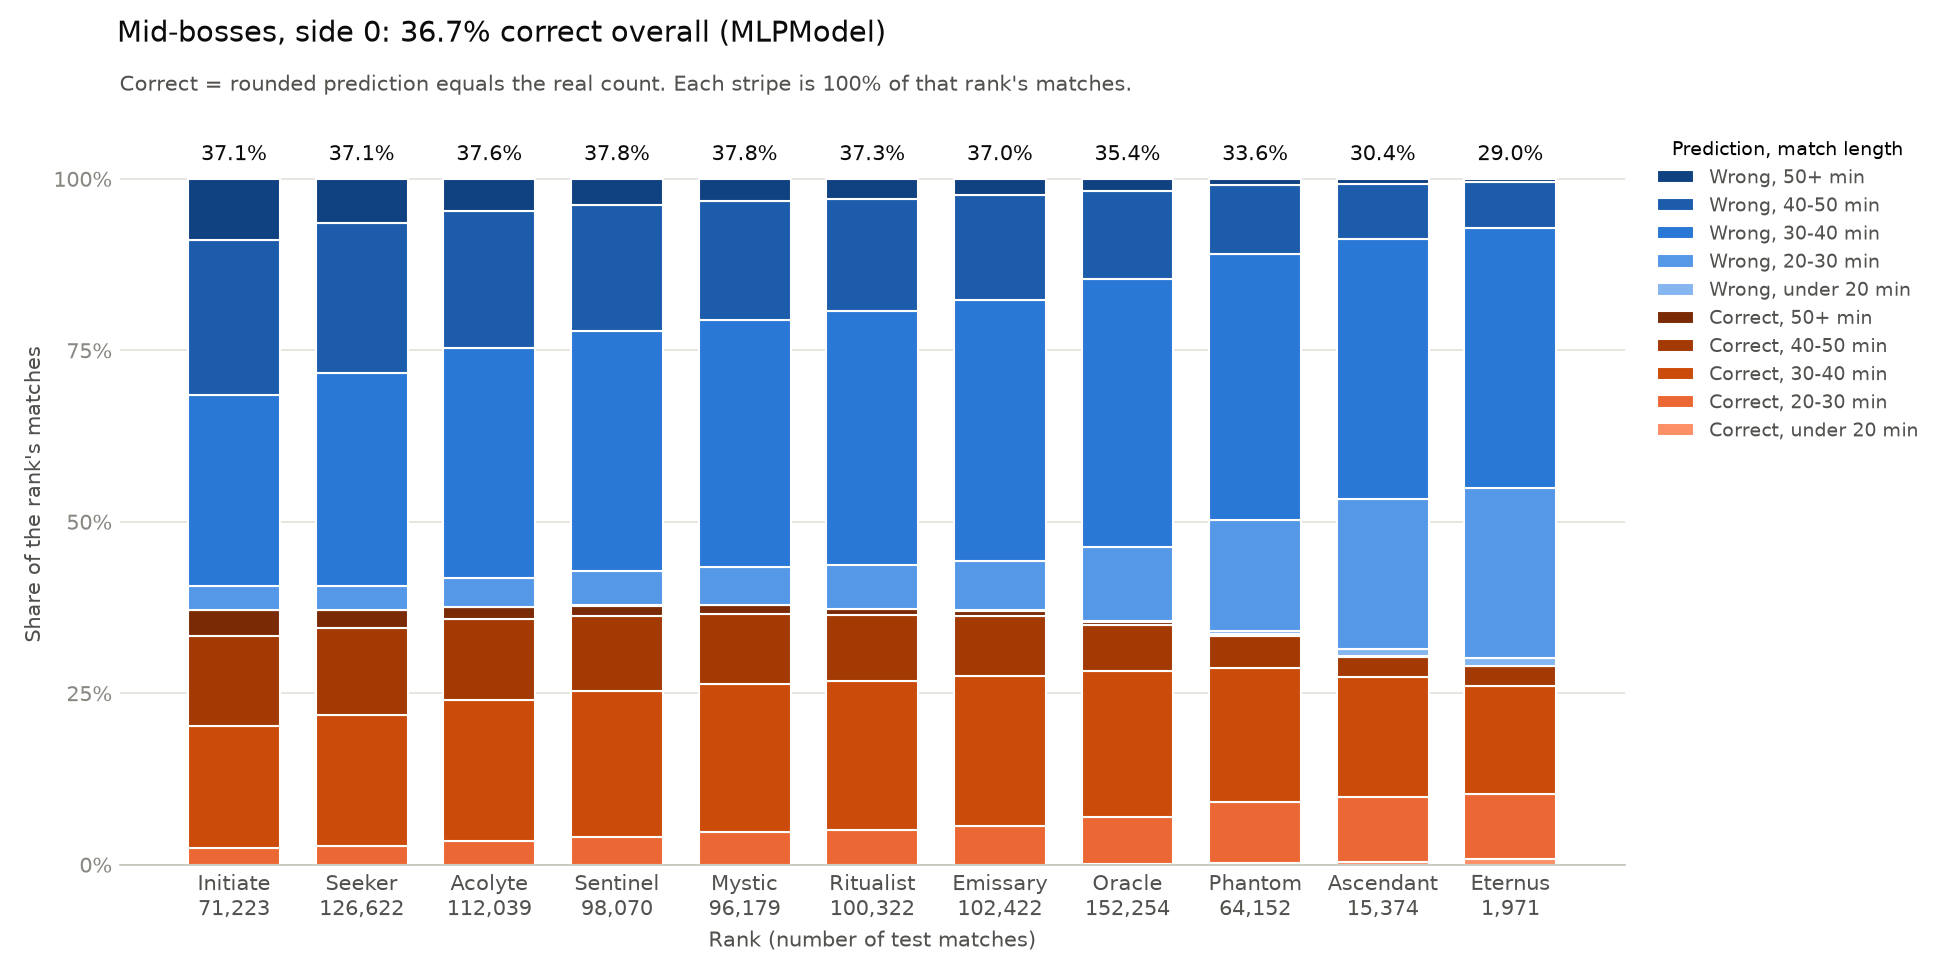
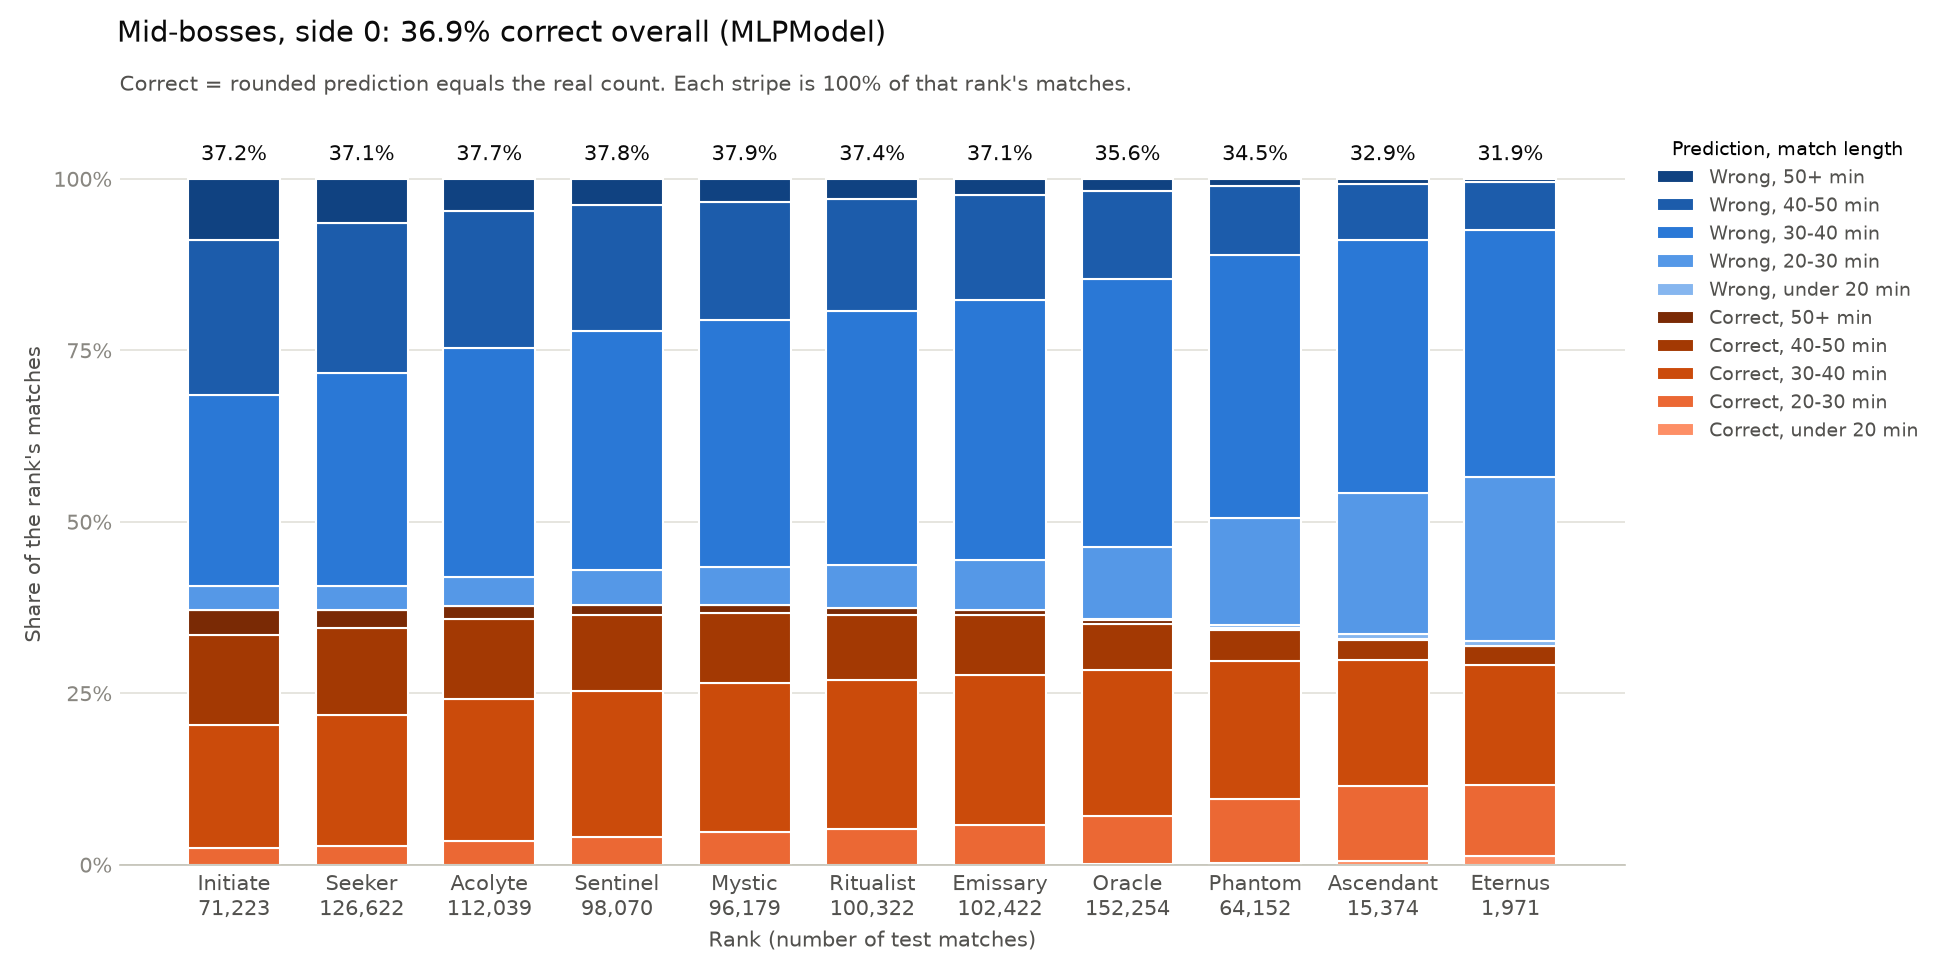
Changed execution to best weights memorization.

diff --git a/README.md b/README.md
@@ -43,7 +43,7 @@ That is four prediction tasks, but six numbers because kills and mid-bosses have
 
 The match data comes from the community [Deadlock API](https://deadlock-api.com/). The saved datasets currently cover **August 1 to September 28, 2026**. They contain **1,727,287 unranked matches** and **940,755 ranked matches**.
 
-We train on all unranked matches and test on ranked matches. This is a deliberate constraint: we want to see how well a model trained in one mode works in the other. The baseline computes its averages from the full unranked dataset. The linear model and four MLPs also train on the full set. This run uses a fixed number of epochs and does not use validation to choose an epoch. Setting a positive `patience` for a learned model switches back to the time-based training and validation split.
+We train on unranked matches and test on ranked matches. This is a deliberate constraint: we want to see how well a model trained in one mode works in the other. The baseline computes its averages from the full unranked dataset. The linear model and four MLPs train on the earliest 80% of unranked matches and use the next 10% for validation. They keep the epoch with the lowest validation loss. The newest 10% of unranked matches are outside those training and validation splits.
 
 Each match has **63 input numbers**, all meant to be known before the match:
 
@@ -93,7 +93,7 @@ Each task MLP has **four hidden linear layers** in total: two for players and tw
 
 ## How we test
 
-After training, the script prints accuracy on the unranked matches used for training and saves it in `training_accuracy.json` inside each model's results folder. These are in-sample scores: they show how well the models predict matches they have already trained on, so they can look better than scores on new matches.
+After training, the script prints accuracy on all unranked matches and saves it in `training_accuracy.json` inside each model's results folder. For the linear model and MLPs, these scores combine matches used for training, validation, and the remaining unranked test split. They are not a separate ranked test score.
 
 We then use the same separate ranked test matches and rules for every model:
 
@@ -110,33 +110,33 @@ Each plot shows results by rank. A bar is **100% of the matches in that rank**: 
 
 ## Results
 
-These are the current percentages on the ranked test plots. All three approaches use the full unranked dataset for training. The linear model uses all input groups, and the MLP column combines the four independently trained task models.
+These are the current percentages on the ranked test plots. The baseline uses the full unranked dataset; the learned models train on its earliest 80%. The linear model uses all input groups, and the MLP column combines the four independently trained task models.
 
 | Prediction | Baseline | Linear | MLP |
 | --- | ---: | ---: | ---: |
-| Winner | 50.6% | 58.0% | **58.5%** |
-| Duration | 39.2% | **43.2%** | **43.2%** |
-| Kills, side 0 | **25.5%** | 20.7% | 22.6% |
-| Kills, side 1 | **22.3%** | 20.7% | 22.2% |
-| Mid-bosses, side 0 | **36.9%** | 36.6% | 36.7% |
-| Mid-bosses, side 1 | **36.5%** | 36.2% | 36.3% |
+| Winner | 50.6% | 58.0% | **60.1%** |
+| Duration | 39.2% | **43.2%** | 42.5% |
+| Kills, side 0 | **25.5%** | 20.3% | 22.9% |
+| Kills, side 1 | 22.3% | 20.3% | **22.5%** |
+| Mid-bosses, side 0 | **36.9%** | 36.6% | **36.9%** |
+| Mid-bosses, side 1 | **36.5%** | 36.2% | **36.5%** |
 
-We also measured accuracy on all **1,727,287 unranked training matches** using the same rules. These numbers show how well each model predicts matches it learned from; the ranked test table above is the better check on new matches.
+We also measured accuracy on all **1,727,287 unranked matches** using the same rules. For the learned models, this includes matches outside their training split; the ranked test table above shows how they perform in the other match mode.
 
-| Prediction | Baseline training | Linear training | MLP training |
+| Prediction | Baseline, unranked | Linear, unranked | MLP, unranked |
 | --- | ---: | ---: | ---: |
-| Winner | 50.1% | 61.1% | 63.3% |
-| Duration | 40.3% | 40.8% | 41.0% |
-| Kills, side 0 | 22.2% | 22.2% | 22.9% |
-| Kills, side 1 | 19.9% | 22.3% | 22.8% |
-| Mid-bosses, side 0 | 38.1% | 38.5% | 39.2% |
-| Mid-bosses, side 1 | 38.0% | 38.4% | 39.1% |
+| Winner | 50.1% | 61.0% | 62.8% |
+| Duration | 40.3% | 40.9% | 40.7% |
+| Kills, side 0 | 22.2% | 22.0% | 23.1% |
+| Kills, side 1 | 19.9% | 22.1% | 23.1% |
+| Mid-bosses, side 0 | 38.1% | 38.5% | 39.0% |
+| Mid-bosses, side 1 | 38.0% | 38.4% | 38.9% |
 
-Compared with the earlier 80%-training runs, the MLP's ranked winner score fell from **60.3% to 58.5%**, while its duration score rose from **42.4% to 43.2%**. The other changes are small. The training data and the way we choose the final epoch both changed, so these differences do not tell us which change caused them. The models also use different training settings, and more tuning could change the scores.
+The MLP has the highest ranked winner score. The linear model scores highest on duration, while the baseline remains strongest for side 0 kills. The models use different training settings, and more tuning could change these scores.
 
 ### Winner
 
-The independent MLP gets the winner right in **58.5%** of ranked matches with a known rank. That is **7.9 percentage points** above the baseline and **0.5 points** above the all-input linear model. Its training score is **63.3%**. That gap does not measure overfitting by itself, because training uses unranked matches and testing uses ranked matches.
+The independent MLP gets the winner right in **60.1%** of ranked matches with a known rank. That is **9.5 percentage points** above the baseline and **2.1 points** above the all-input linear model. Its score across all unranked matches is **62.8%**. The gap between these scores does not measure overfitting by itself, because the unranked score includes validation and test splits and the ranked matches come from a different mode.
 
 ![Winner predictions by rank for the independent MLP](results/mlp/independent/MLPModel_match_outcome.png)
 
@@ -144,15 +144,15 @@ The independent MLP gets the winner right in **58.5%** of ranked matches with a 
 
 ### Match duration
 
-The linear model and MLP both score **43.2%** after rounding to one decimal place: their predictions are within 10% of the real match length. The baseline reaches **39.2%**. The MLP improved on its earlier **42.4%** result, but it does not clearly beat the linear model here.
+The linear model scores **43.2%**, the MLP **42.5%**, and the baseline **39.2%**. A duration prediction counts as correct when it is within 10% of the real match length.
 
-![Duration predictions by rank for the independent MLP](results/mlp/independent/MLPModel_match_time.png)
+![Duration predictions by rank for the linear model](results/linear/id_lanes_parties_experience_flags/LinearModel_match_time.png)
 
-[Baseline duration plot](results/baseline/Baseline_match_time.png) | [Linear duration plot](results/linear/id_lanes_parties_experience_flags/LinearModel_match_time.png)
+[Baseline duration plot](results/baseline/Baseline_match_time.png) | [MLP duration plot](results/mlp/independent/MLPModel_match_time.png)
 
 ### Kills
 
-Kills are harder under the 10% rule. For side 0, the baseline scores **25.5%**, the MLP **22.6%**, and the all-input linear model **20.7%**. For side 1, they score **22.3%**, **22.2%**, and **20.7%**, respectively. The MLP improves on the linear model, but it does not beat the baseline here.
+Kills are harder under the 10% rule. For side 0, the baseline scores **25.5%**, the MLP **22.9%**, and the all-input linear model **20.3%**. For side 1, the MLP scores **22.5%**, the baseline **22.3%**, and the linear model **20.3%**.
 
 ![Side 0 kill predictions by rank for the baseline](results/baseline/Baseline_kills_side_0.png)
 
@@ -160,7 +160,7 @@ Kills are harder under the 10% rule. For side 0, the baseline scores **25.5%**, 
 
 ### Mid-bosses
 
-The baseline scores **36.9%** for side 0 and **36.5%** for side 1. The MLP is close at **36.7%** and **36.3%**; the linear model gets **36.6%** and **36.2%**. The baseline's average is about **0.9 mid-bosses per side**, which rounds to one. One mid-boss is common in the ranked data, so this simple prediction is already hard to improve on under the exact-count rule.
+The baseline and MLP both score **36.9%** for side 0 and **36.5%** for side 1 after rounding to one decimal place. The linear model gets **36.6%** and **36.2%**. The baseline's average is about **0.9 mid-bosses per side**, which rounds to one. One mid-boss is common in the ranked data, so this simple prediction is already hard to improve on under the exact-count rule.
 
 ![Side 0 mid-boss predictions by rank for the baseline](results/baseline/Baseline_mid-bosses_side_0.png)
 
